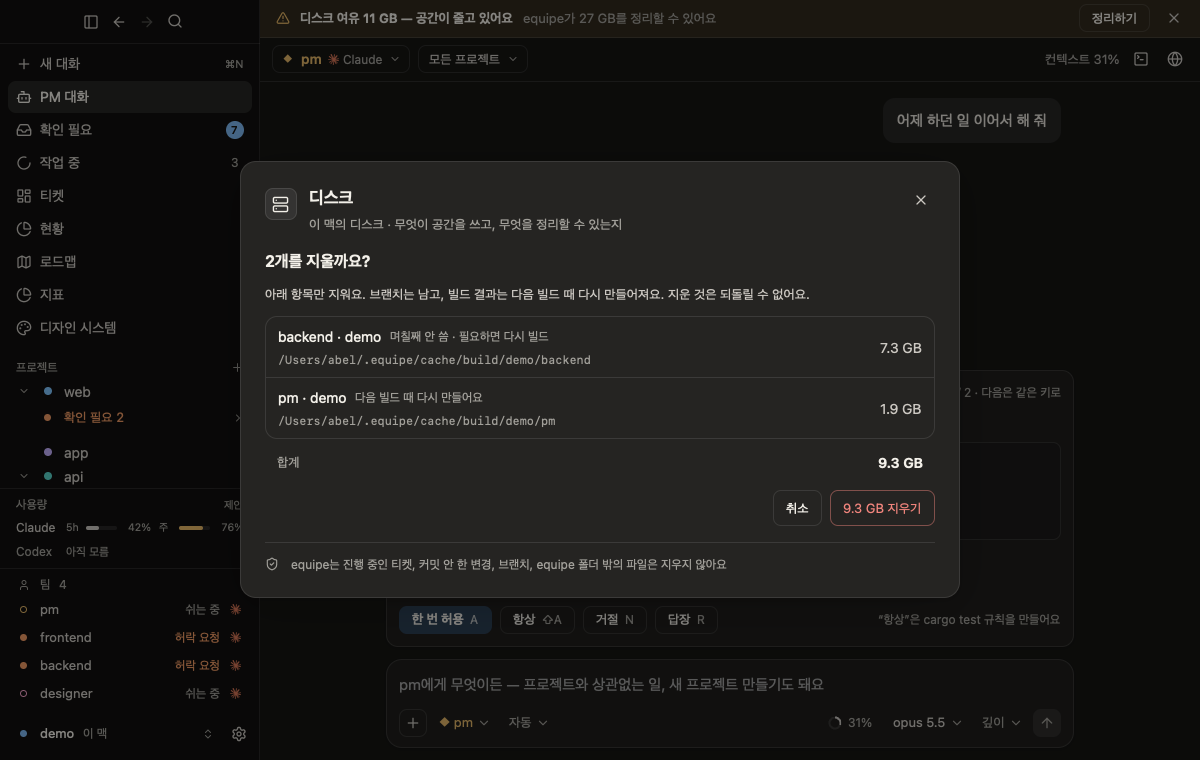
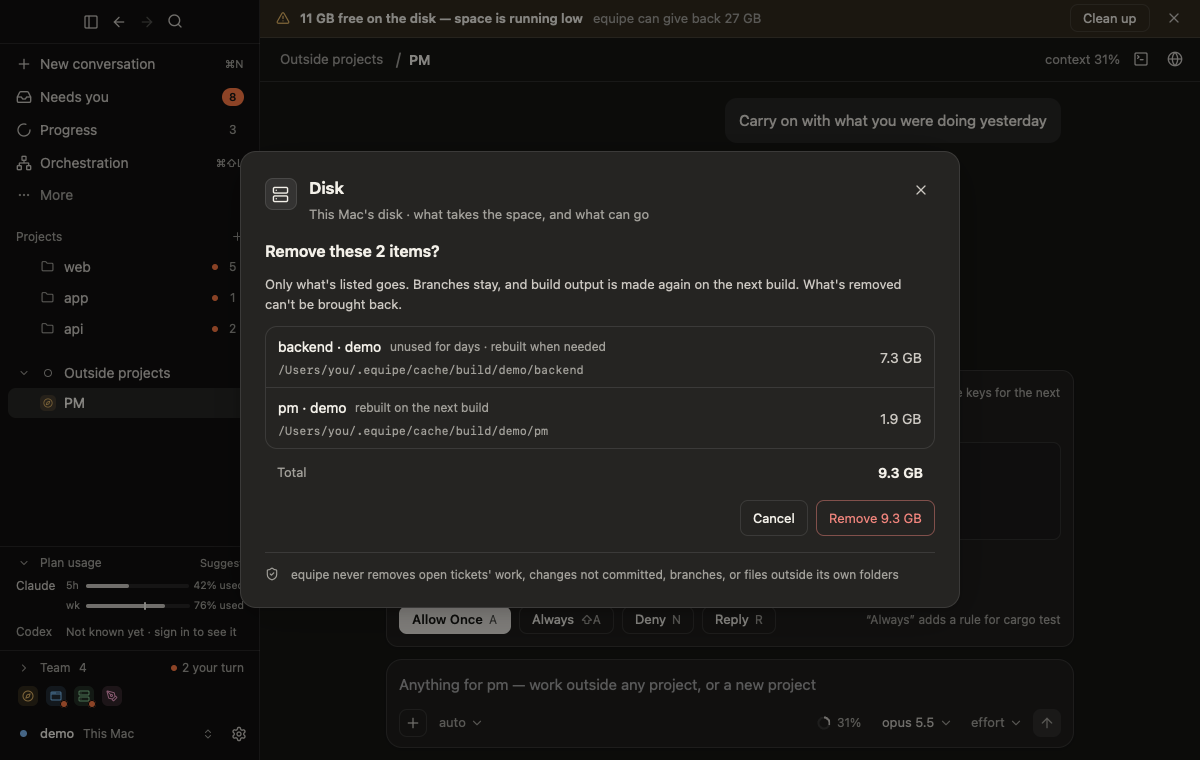
Desktop fake daemon: neutral /Users/you paths; reshoot Disk UI map

diff --git a/crates/desktop/examples/fake_daemon/disk.rs b/crates/desktop/examples/fake_daemon/disk.rs
@@ -56,12 +56,12 @@ pub fn status() -> Option<DiskStatus> {
 }
 
 fn home() -> PathBuf {
-    PathBuf::from("/Users/abel")
+    PathBuf::from("/Users/you")
 }
 
 #[allow(clippy::too_many_arguments)]
 fn item(group: DiskGroup, kind: DiskKind, label: &str, path: &str, bytes: u64, safe: bool, why: DiskWhy, ticket: Option<u32>, command: Option<&str>) -> DiskItem {
-    let path = PathBuf::from(path.replace('~', "/Users/abel"));
+    let path = PathBuf::from(path.replace('~', "/Users/you"));
     let kind_word = serde_json::to_value(kind).unwrap().as_str().unwrap().to_owned();
     DiskItem {
         id: format!("{kind_word}:{}", path.display()),
@@ -171,7 +171,7 @@ pub fn failed_build() -> Vec<equipe_core::protocol::Entry> {
     if !matches!(mode(), Some(DiskLevel::Critical | DiskLevel::Full)) {
         return Vec::new();
     }
-    let output = "   Compiling gpui v0.2.0\nerror: failed to write /Users/abel/.equipe/cache/build/demo/frontend/debug/deps/libgpui.rlib: No space left on device (os error 28)\n\nerror: could not compile `gpui` (lib) due to 1 previous error";
+    let output = "   Compiling gpui v0.2.0\nerror: failed to write /Users/you/.equipe/cache/build/demo/frontend/debug/deps/libgpui.rlib: No space left on device (os error 28)\n\nerror: could not compile `gpui` (lib) due to 1 previous error";
     let outcome = ToolOutcome { ok: false, exit: Some(101), ms: Some(48_200), output: output.into(), skipped: 0, diff: None };
     vec![
         Entry::Tool { tool: "Bash".into(), target: Some("cargo build -p equipe-desktop".into()), outcome: Some(Box::new(outcome)), label: None, background: false },

diff --git a/crates/desktop/src/convo.rs b/crates/desktop/src/convo.rs
@@ -1310,7 +1310,7 @@ mod tests {
         feed(&mut c, &[
             Event::UserMessage { session: 1, text: "go".into(), kept: Vec::new() },
             tool("Bash", "cp /a/logo.png img/"),
-            refused("cp /a/logo.png img/", "cp to '/Users/abel/Abel/equipe-site/public/logo.png' was blocked by a deny rule."),
+            refused("cp /a/logo.png img/", "cp to '/Users/you/Abel/equipe-site/public/logo.png' was blocked by a deny rule."),
             tool("Bash", "cp x y"),
             refused("cp x y", "cp: y: Permission denied"),
         ]);

diff --git a/crates/desktop/src/render/prose.rs b/crates/desktop/src/render/prose.rs
@@ -504,7 +504,7 @@ mod tests {
 
     #[test]
     fn only_ticket_numbers_standing_on_their_own_become_links() {
-        let path = "/Users/abel/.equipe/worktrees/photo-studio.home/t2-6ad338ba/outputs/T-2 갤러리 디자인/images/";
+        let path = "/Users/you/.equipe/worktrees/photo-studio.home/t2-6ad338ba/outputs/T-2 갤러리 디자인/images/";
         let cases: &[(&str, &str)] = &[
             // Kept: the number alone, and beside punctuation or a particle.
             ("T-2: 갤러리", "[T-2](ticket:2): 갤러리"),
